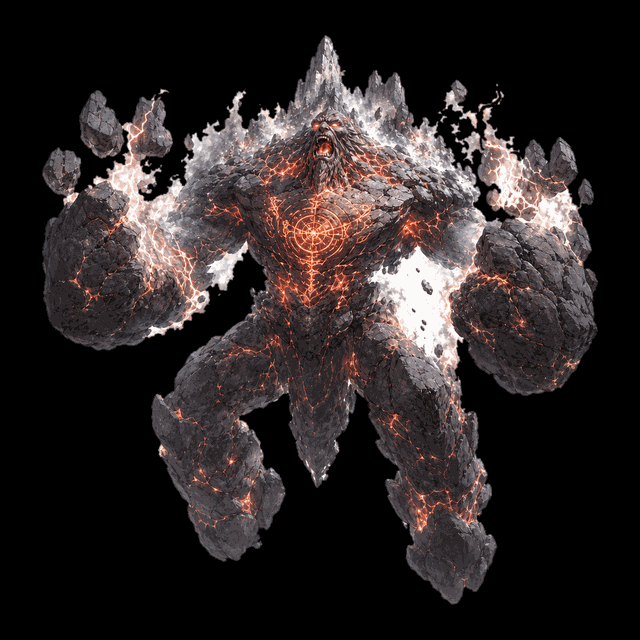
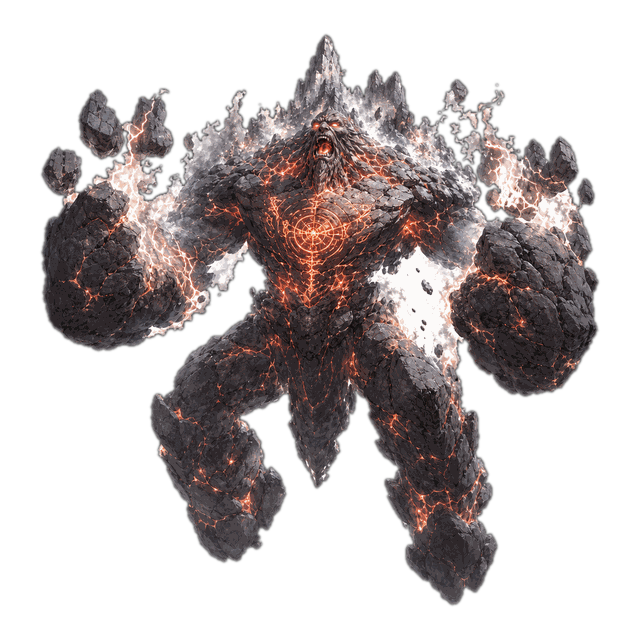
补抠图：完整进化图 22 张转透明 webp（含冰甲白熊），11 张 Boss 立绘去底；修复对象缺逗号

diff --git a/public/game.html b/public/game.html
@@ -5376,10 +5376,32 @@ const EVO_ART_WEBP = {
   alpaca_s2: true,
   mole_s2: true,
   jellyfish_s2: true,
-  peacock_s2: true
+  peacock_s2: true,
+  albatross_s1: true,
+  alpaca_s1: true,
+  arcticfox_s1: true,
+  bat_s1: true,
+  flamingo_s1: true,
+  flysquirrel_s1: true,
+  goat_s1: true,
+  gull_s1: true,
+  jellyfish_s1: true,
+  koala_s1: true,
+  lynx_s1: true,
+  mole_s1: true,
+  moth_s1: true,
+  mushroom_s1: true,
+  octopus_s1: true,
+  peacock_s1: true,
+  penguin_s1: true,
+  polarbear_s1: true,
+  seal_s1: true,
+  sparrow_s1: true,
+  unicorn_s1: true,
+  walrus_s1: true
 };
 // 老 jpg 进化图（早期 5 只主角）：PNG 缺失时作为兜底
-const EVO_ART_JPG = { pig_s1: true, pig_s2: true, golden_s1: true, golden_s2: true, dragon_s1: true, dragon_s2: true, lion_s1: true, lion_s2: true, unicorn_s2: true, unicorn_s1: true, goat_s1: true, gull_s1: true, flysquirrel_s1: true, sparrow_s1: true, moth_s1: true, albatross_s1: true, penguin_s1: true, seal_s1: true, arcticfox_s1: true, polarbear_s1: true, walrus_s1: true, koala_s1: true, flamingo_s1: true, octopus_s1: true, mushroom_s1: true, bat_s1: true, lynx_s1: true, alpaca_s1: true, mole_s1: true, jellyfish_s1: true, peacock_s1: true };
+const EVO_ART_JPG = { pig_s1: true, pig_s2: true, golden_s1: true, golden_s2: true, dragon_s1: true, dragon_s2: true, lion_s1: true, lion_s2: true, unicorn_s2: true };
 function petArtCandidates(templateId) {
   if (!PET_ART[templateId]) return [];
   return PET_ART_PNG[templateId]
